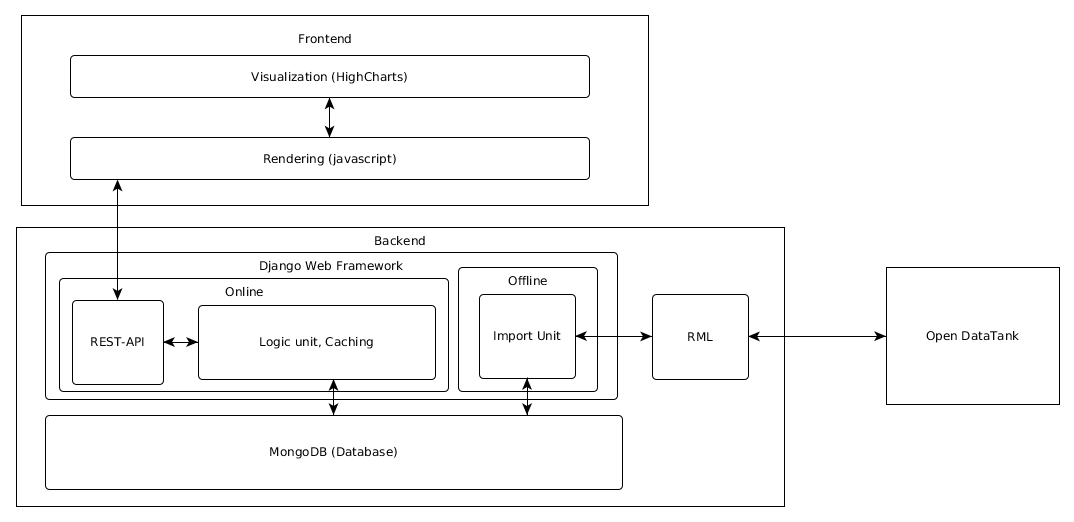
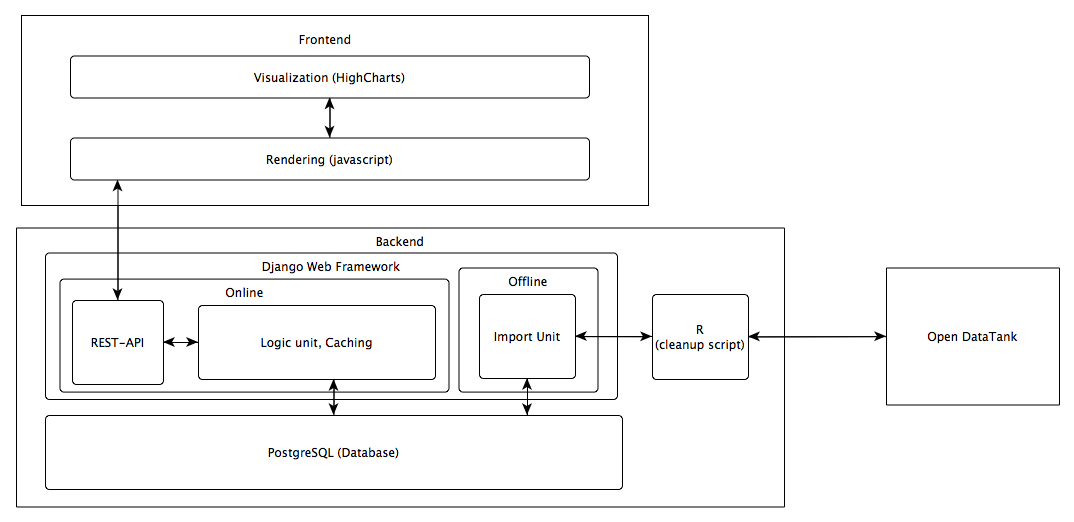
Update mentions to RML and mongo

diff --git a/documents/report/chapter-application.tex b/documents/report/chapter-application.tex
@@ -6,7 +6,8 @@
 At the frontend side of our web application, we will have two main components, a rendering component and a visualization component. At the rendering block, the data requested via the API from the backend will be transformed into e.g. figures, dots, that can be displayed on the browser. When the transformation is finished, the visualization block will show the transformed data on the website itself.
 
 \subsection{Backend}
-We make use of three main components in the backend. First there is the RML unit which will be used to make a mapping between the data of the Open Datatank towards a Linked Data JSON format. The second component is the database, for which we will use MongoDB so we can create a semantical database. As last main component, we have the django web framework. The blocks in this framework consist of an online and offline section. In the online section we have the REST-API which will be used to open up our data to our website and also towards other applications because of the open data concept. Besides this REST-API there is also a logical unit where the caching of requests, data,... will happen. At the offline section of the Django Web Framework, we will provide an import unit to put the JSON-LD data into the database. This is an offline block since the data is provided as a data dump and only needs to imported once. Since it will make use of the mapping that Django provides between the database and Python objects, it is included in the Django block.
+We make use of three main components in the backend.
+First there is part responsible for importing the data consisting of a script in R that performs a cleanup of the CSV data provided by the Open Datatank and a script that imports this CSV into the database. The second component is the database, for which we will use PostgreSQL, a commonly used relational database. As last main component, we have the django web framework. The blocks in this framework consist of an online and offline section. In the online section we have the REST-API which will be used to open up our data to our website and also towards other applications because of the open data concept. Besides this REST-API there is also a logical unit where the caching of requests, data,... will happen. At the offline section of the Django Web Framework, we will provide an import unit to put the data provided as CSV into our database. This is an offline block since the data is provided as a data dump and only needs to imported once. Since it will make use of the mapping that Django provides between the database and Python objects, it is included in the Django block.
 
 \section{Functional requirements}
 
@@ -16,7 +17,9 @@ When the website will be loaded for the first time, at first an empty map of Ghe
 
 \subsection{Linked Data}
 
-We were requested by \emph{Pieter Colpaert} and \emph{Anastasia Dimou} to provide compatibility with a project they will set up at the main \emph{Apps for Ghent} event involving linked data. In order to provide this compatability we will add context mappings using \emph{JSON-LD} to our data that is already provided as \emph{JSON}. In order to globally uniquely define an item such as a book, both teams need to decide on the same URI for a given item. For this reason, we will need to define the same mapping from the provided CSV to JSON-LD using the same RML mapping rules.
+We were requested by \emph{Pieter Colpaert} and \emph{Anastasia Dimou} to provide compatibility with a project they will set up at the main \emph{Apps for Ghent} event involving linked data. In order to provide this compatibility we would need to add context mappings using \emph{JSON-LD} to our data that is already provided as \emph{JSON}. In order to globally uniquely define an item such as a book, both teams need to decide on the same URI for a given item. For this reason, we would need to define the same mapping from the provided CSV to JSON-LD using the same RML mapping rules.
+
+Although this is an interesting idea, we did not continue with it because of extra time that was lost cleaning up the data and switching from MongoDB to PostgreSQL and because Pieter and Anastasia did not continue with their project at \emph{Apps for Ghent}.
 
 \subsection{API}
 

diff --git a/documents/report/chapter-organisation.tex b/documents/report/chapter-organisation.tex
@@ -39,9 +39,9 @@
 \begin{itemize}
 	\item Django with django REST framework for the web application and API.
 	\item Apache2 webserver with Web Server Gateway Interface (WSGI) for serving Python applications.
-	\item MongoDB No-SQL database to store JSON-like documents, consistent with JSON-LD mapping.
+  \item PostgreSQL database.
   \item HighCharts and HighMaps for visualisation on the client side.
-  \item RML for mapping CSV data to JSON-LD
+  \item R is used to perform a cleanup of the data.
 \end{itemize}
 
 Open source licences and fast development for all above components outweigh the usage of other technologies.
